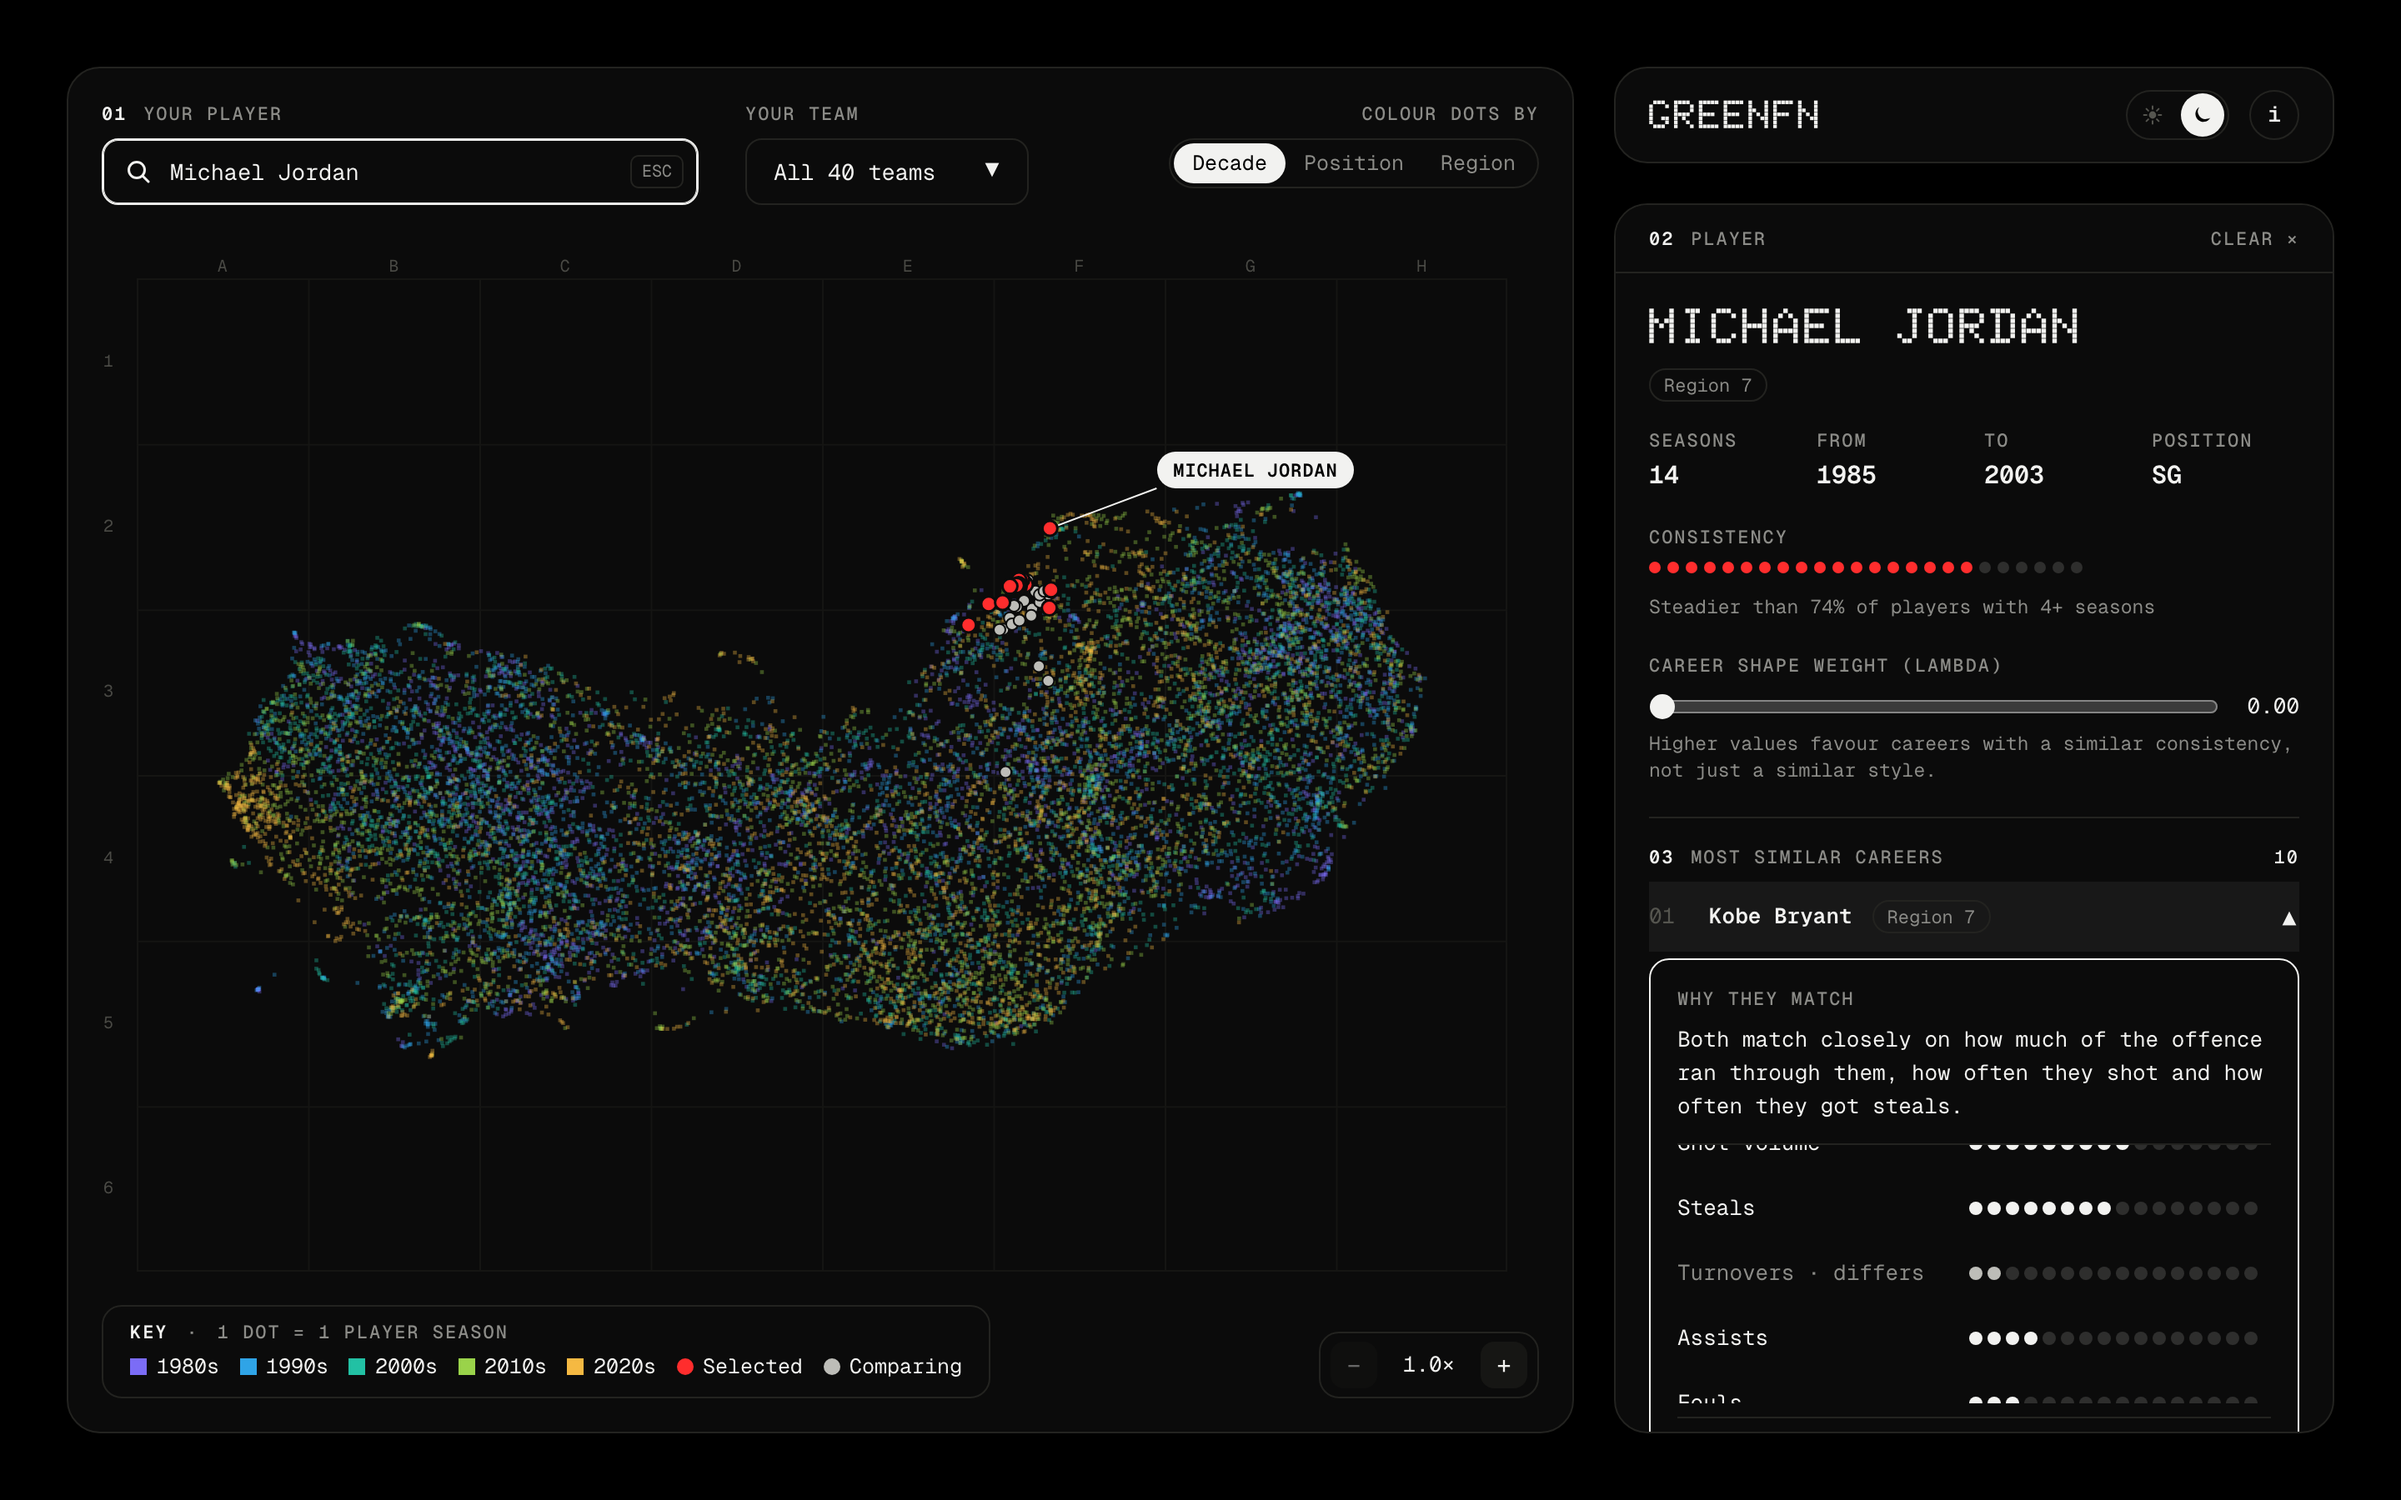
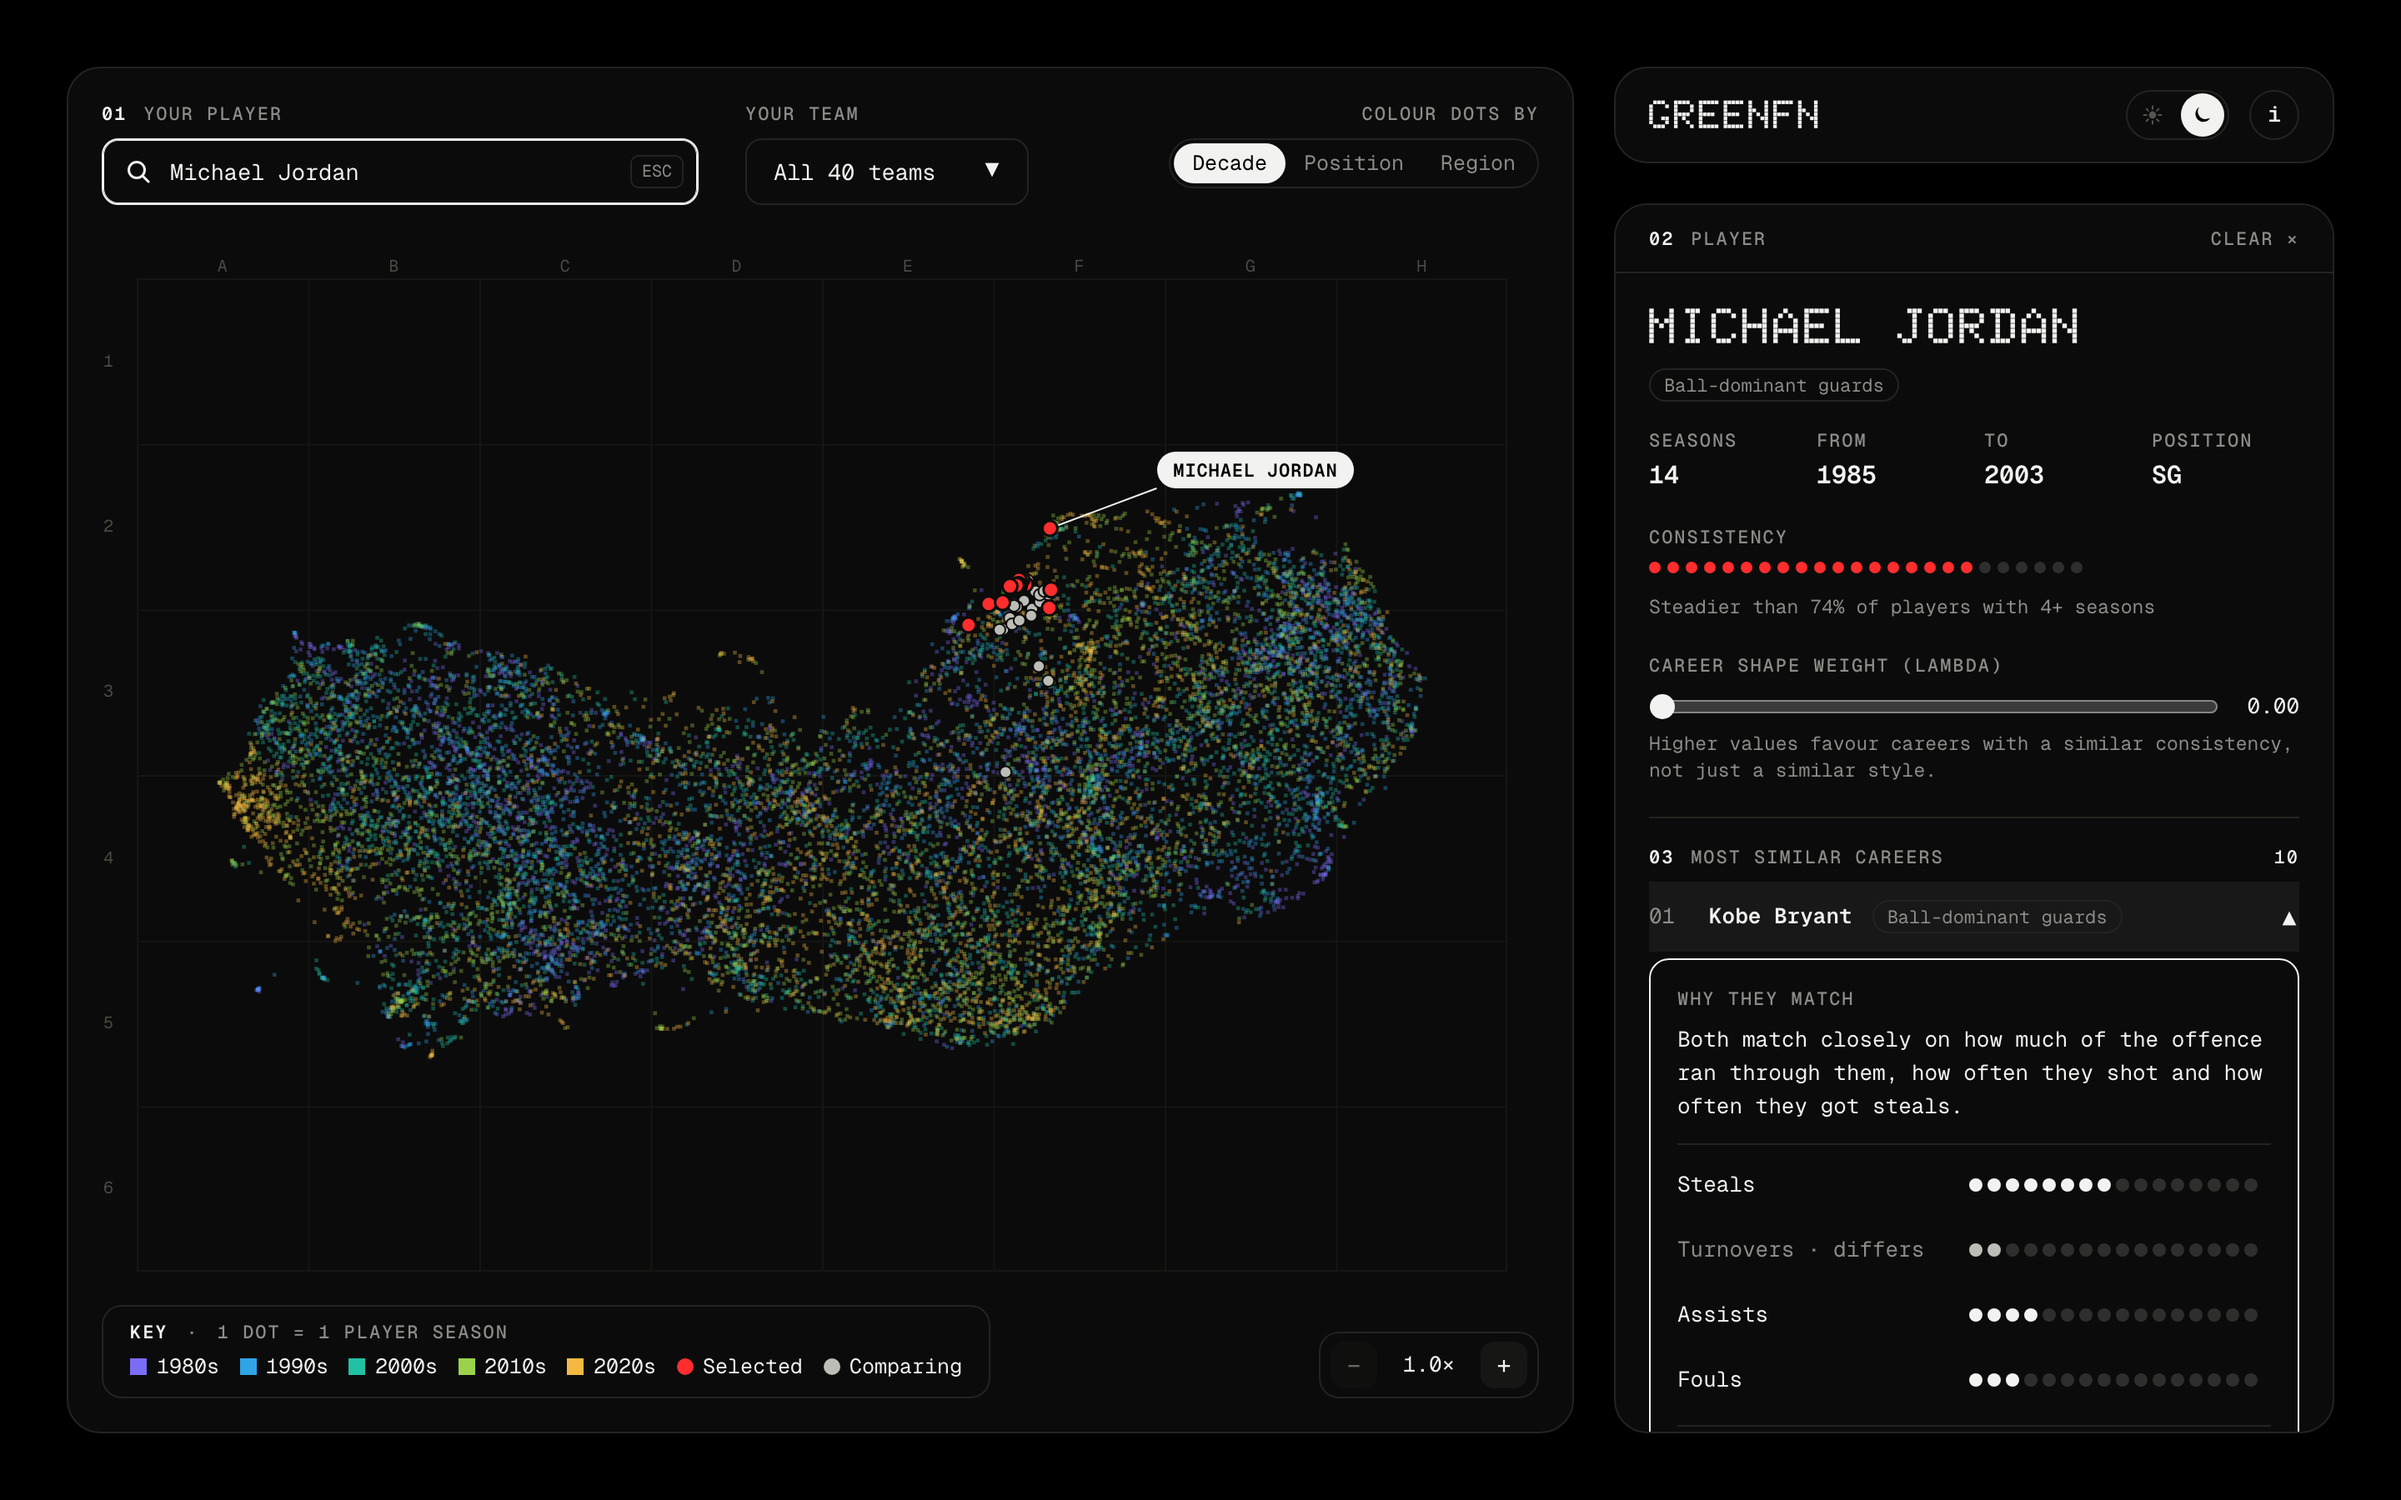
Phase 7b: fresh screenshots of the open why card

diff --git a/notes/phase7b_run_log.md b/notes/phase7b_run_log.md
@@ -34,7 +34,8 @@ Status: finished
 | Vercel Root Directory set to `web` with the CLI (`vercel api` PATCH) | none (project setting) | Failed preview redeployed: ready in 2 min |
 | Region 7 named "Ball-dominant guards" | 86d314f | Fixed override keyed on the cluster's top-3 stats |
 | Why rows scroll in their own box | 981eb5a | Own top border, snap to whole rows, short top and bottom fades |
-| Row numbers in the label grey; ESC button name includes "ESC" | this commit | Lighthouse accessibility 100 on `/` and on `/player/jordami01` |
+| Row numbers in the label grey; ESC button name includes "ESC" | 8f2381c | Lighthouse accessibility 100 on `/` and on `/player/jordami01` |
+| Re-verified: 31 tests pass, parity unchanged, build 2,471 pages; fresh `comp-light.png` / `comp-dark.png` | this commit | Why rows snap to whole rows (scrollTop 0, 78, 195, 429 for requests 0, 60, 200, 999) |
 
 ## Key numbers
 - Motion version / Next.js version: motion 14.14.0, Next.js 16.4.6, React 19.3.0, Playwright 1.65.1 (dev only)
